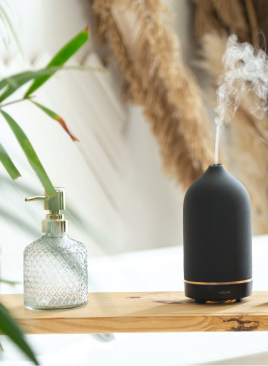
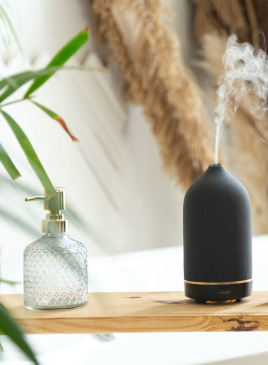
Fix: (section "Products") Load smaller pics for products at wider widths on mobile screens, so they all fit

diff --git a/app/html/index.html b/app/html/index.html
@@ -130,7 +130,7 @@
           <div class="products__card-box cards__card-box section--decor">
             <div class="card">
               <picture>
-                <source type="image/jpeg" srcset="./img/products/heart-of-love-small.jpg" media="(max-width: 360px)"
+                <source type="image/jpeg" srcset="./img/products/heart-of-love-small.jpg" media="(max-width: 411px)"
                   width="141" height="176" />
                 <source type="image/jpeg" srcset="./img/products/heart-of-love-middle.jpg" media="(max-width: 856px)"
                   width="188" height="213" />
@@ -147,7 +147,7 @@
             </div>
             <div class="card">
               <picture>
-                <source type="image/jpeg" srcset="./img/products/whirlwind-of-love-small.jpg" media="(max-width: 360px)"
+                <source type="image/jpeg" srcset="./img/products/whirlwind-of-love-small.jpg" media="(max-width: 411px)"
                   width="141" height="176" />
                 <source type="image/jpeg" srcset="./img/products/whirlwind-of-love-middle.jpg"
                   media="(max-width: 856px)" width="188" height="213" />
@@ -164,7 +164,7 @@
             </div>
             <div class="card">
               <picture>
-                <source type="image/jpeg" srcset="./img/products/rainbow-small.jpg" media="(max-width: 360px)"
+                <source type="image/jpeg" srcset="./img/products/rainbow-small.jpg" media="(max-width: 411px)"
                   width="141" height="176" />
                 <source type="image/jpeg" srcset="./img/products/rainbow-middle.jpg" media="(max-width: 856px)"
                   width="188" height="213" />
@@ -181,7 +181,7 @@
             </div>
             <div class="card">
               <picture>
-                <source type="image/jpeg" srcset="./img/products/women-beauty-small.jpg" media="(max-width: 360px)"
+                <source type="image/jpeg" srcset="./img/products/women-beauty-small.jpg" media="(max-width: 411px)"
                   width="141" height="176" />
                 <source type="image/jpeg" srcset="./img/products/women-beauty-middle.jpg" media="(max-width: 856px)"
                   width="188" height="213" />
@@ -339,14 +339,14 @@
               как профессионал, а также улучшить качество своей жизни.
             </p>
           </div>
-          <div class="products__card-box cards__card-box section--decor">
+          <div class="cards__card-box section--decor">
             <div class="card">
               <div class="card__image-box">
                 <picture>
                   <source type="image/jpeg" srcset="./img/courses/basics-of-candle-making-small.jpg" media="(max-width: 360px)"
-                    width="" height="" />
+                    width="245" height="333" />
                   <source type="image/jpeg" srcset="./img/courses/basics-of-candle-making-middle.jpg" media="(max-width: 959px)"
-                    width="" height="" />
+                    width="188" height="256" />
                   <img class="card__pic" src="./img/courses/basics-of-candle-making.jpg" alt="Свеча, стоящая на книжке и слегка прикрытая ветками и цветами гипсофилы" width="268" height="366">
                 </picture>
                 <div class="card__image-sticker card__image-sticker--length">Обучение <span>- 20 часов</span></div>
@@ -359,10 +359,10 @@
             <div class="card">
               <div class="card__image-box">
                 <picture>
-                  <source type="image/jpeg" srcset="./img/courses/art-of-aromatherapy.jpg-small" media="(max-width: 360px)"
-                    width="" height="" />
+                  <source type="image/jpeg" srcset="./img/courses/art-of-aromatherapy-small.jpg" media="(max-width: 360px)"
+                    width="245" height="333" />
                   <source type="image/jpeg" srcset="./img/courses/art-of-aromatherapy-middle.jpg"
-                    media="(max-width: 959px)" width="" height="" />
+                    media="(max-width: 959px)" width="188" height="256" />
                   <img class="card__pic" src="./img/courses/art-of-aromatherapy.jpg" alt="Включённый аромадифузер стоит на полке вместе в стеклянным сосудом для парфюма" width="268" height="366">
                 </picture>
                 <div class="card__image-sticker card__image-sticker--length">Обучение <span>- 30 часов</span></div>

diff --git a/app/scss/blocks/card.scss b/app/scss/blocks/card.scss
@@ -17,32 +17,61 @@
   padding: 14px;
   background-color: $light-taupe;
   font-size: 14px;
-  color: #FFFFFF;
+  color: #ffffff;
+
+  @media (max-width: 959px) {
+    padding: 8px 10px;
+    font-size: 12px;
+  }
 }
-.card__image-sticker--length{
+.card__image-sticker--length {
   top: -14px;
   left: -3px;
+
+  @media (max-width: 959px) {
+    top: -7px;
+    left: 34px;
+  }
 }
 .card__image-sticker--price {
   right: -3px;
   bottom: 8px;
+
+  @media (max-width: 959px) {
+    right: 34px;
+    bottom: 14px;
+  }
 }
 .card__image-sticker span {
   @include main-font-400;
   font-size: 13px;
+
+  @media (max-width: 959px) {
+    font-size: 11px;
+  }
+}
+.card__price,
+.card__name {
+  font-size: 16px;
+
+  @media (max-width: 959px) {
+    font-size: 14px;
+  }
 }
 .card__price {
   margin-bottom: 12px;
-  font-size: 16px;
 }
 .card__name {
   margin-bottom: 16px;
-  font-size: 16px;
 }
 .card__description {
   @include main-font-400;
   margin-bottom: 27px;
-  font-size: 13px;
+  font-size: 12px;
+
+  @media (max-width: 959px) {
+    font-size: 12px;
+  }
 }
 .card__button {
   margin: auto auto 0;

diff --git a/app/scss/blocks/cards.scss b/app/scss/blocks/cards.scss
@@ -36,6 +36,15 @@
     grid-template-columns: 200px auto;
   }
 }
+.courses .cards__inner {
+  @media (max-width: 1142px) {
+    grid-template-columns: 300px auto;
+  }
+  @media (max-width: 1023px) {
+    grid-template-columns: 220px auto;
+    justify-content: space-between;
+  }
+}
 
 .cards__title-box {
   @media (max-width: 714px) {
@@ -77,5 +86,19 @@
   }
   @media (max-width: 450px) {
     grid-template-columns: repeat(2, 161px);
+  }
+}
+.courses .cards__card-box {
+  padding-bottom: 71px;
+  column-gap: 36px;
+
+  @media (max-width: 959px) {
+    grid-template-columns: repeat(2, 270px);
+    column-gap: 15px;
+  }
+  @media (max-width: 840px) {
+    grid-template-columns: repeat(2, 212px);
+    justify-content: space-between;
+    column-gap: 25px;
   }
 }

diff --git a/app/scss/blocks/courses.scss b/app/scss/blocks/courses.scss
@@ -3,4 +3,8 @@
 }
 .courses .button {
   max-width: none;
+
+  @media (max-width: 959px) {
+    padding: 18px 32px;
+  }
 }
